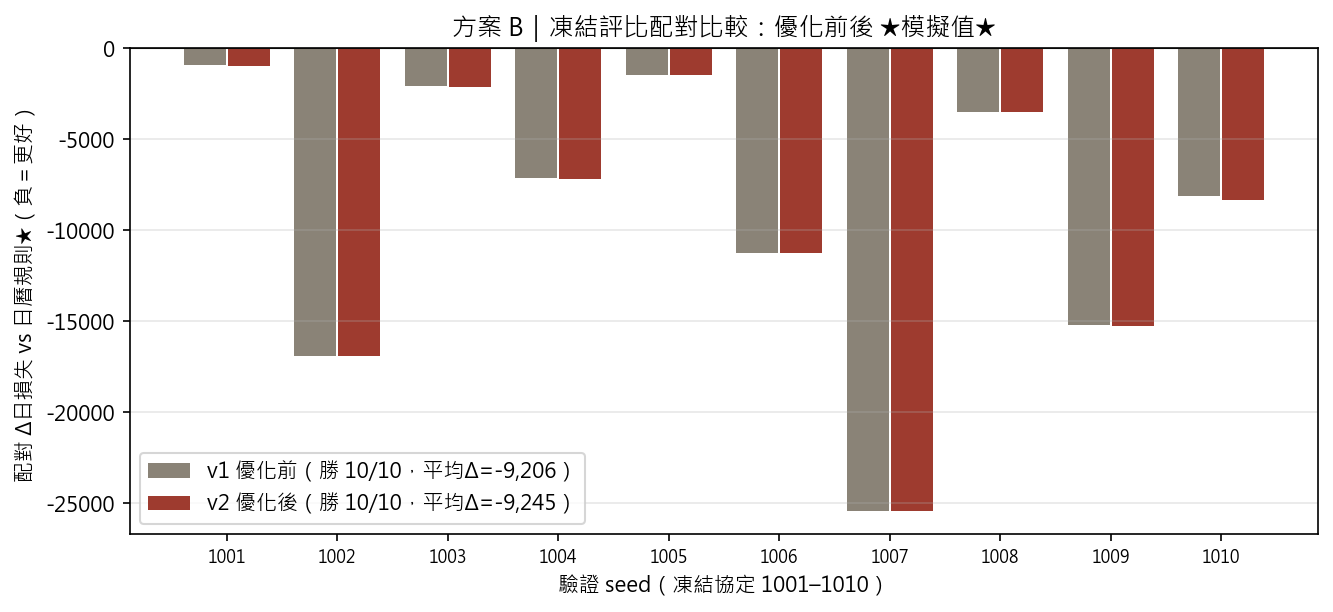
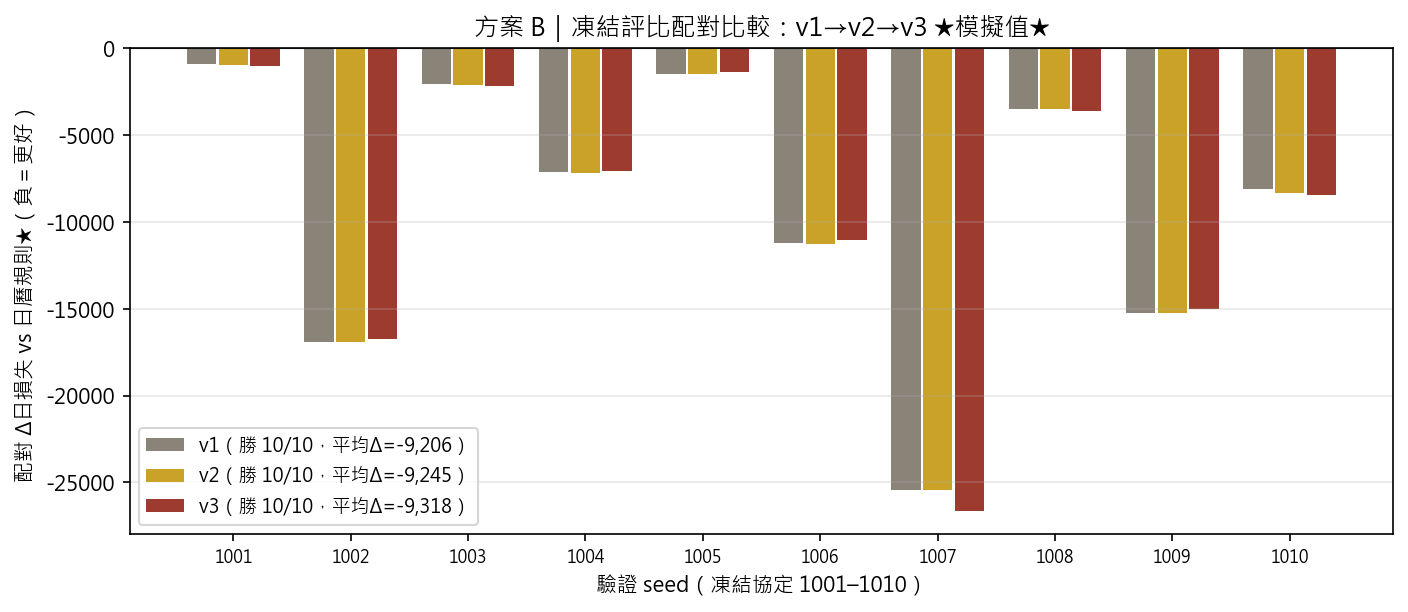
AI三案v3：2×2對照閉合——C換CEM-MLP首次過門檻(8/10)、B三連勝新低、A線性天花板三度確認
- 訓練C v3: DQN→CEM演化小型MLP(292參數)，勝1/10→8/10、Δ-6,496——證實死因是bootstrap
- policies.py B v3: CO2 nowcast反推香支數入DP+30分滾動重解，Δ-9,318、能耗降至3.64Wh
- 訓練A v3: 種子注入(含日曆型候選)仍收斂回常數70——線性天花板三度重現
- 圖表/: 9張更新，比較圖升級v1/v2/v3三代並排；models/: v2全數備份
- 日誌(7f): 2×2對照結論（非線性有增量、bootstrap是死因、顯式最佳化居首）

diff --git a/研究日誌_全期完整版.md b/研究日誌_全期完整版.md
@@ -1427,6 +1427,29 @@ v1 模型與評比結果全數保留（`*_v1.json`）供前後對照。
 > C 兩連敗把「B 為主力」從偏好升格為**有對照組的結論**。這正是
 > 凍結協定的意義：改動前後可比，失敗才有證據力。
 
+**（7f）第三輪（v3）：2×2 對照閉合（使用者裁示「再來一輪」）**
+
+優化內容：A＝種子注入（初始族群塞入常數 70 與手工日曆型候選）＋加大
+初始變異——測試 CEM 能否逃出常數局部最優；B＝排程器本體升級（CO₂
+nowcast 反推當前香支數混入 DP、30 分鐘滾動重解，移除 v2 的「升一檔」
+外掛）；**C＝換演算法**：DQN 兩連敗診斷指向 bootstrap 信用分配，改用
+CEM 演化直接優化小型 MLP（13→16→4，292 參數）的整回合報酬。
+
+**v3 凍結評比（同協定第三次重跑，★模擬值★）**：
+| 案 | v2→v3 | 判定與發現 |
+|---|---|---|
+| B 預測+DP | Δ −9,245→**−9,318**，能耗 3.79→3.64 Wh | ✅ 10/10 三連勝、損失新低——nowcast 讓反應進入最佳化本體 |
+| **C 小型MLP** | 勝 1/10→**8/10**，Δ +4,772→**−6,496** | ✅ **C 案首次過判贏門檻**。動作矩陣：有香時 93% 正確選 220——證實 v1/v2 的死因是 bootstrap 訓練法，不是「AI 不行」。殘餘弱點：無香時不關機（無電仍 8.2 h/日），下一輪明確靶點 |
+| A 線性CEM | 不變（三度收斂回「永遠 70」） | ✅ 9/10。**種子注入含日曆型候選仍逃不出常數解**——線性天花板三度重現，從觀察升格為穩健結論 |
+
+**2×2 對照閉合**（同一凍結協定下的 Δ日損失）：
+非線性×演化（C v3：−6,496）＞ 線性×演化（A：−2,963）＞
+非線性×bootstrap（C v2：+4,772，敗）。
+**「非線性帶來增量、bootstrap 是死因、顯式最佳化（B）仍居首」**
+——三個結論各有對照組，答詢時每一句都有圖可指。
+每案三圖更新（比較圖升級為 v1/v2/v3 三代並排）；DQN 產物保留
+（`dqnC_v1/v2.json`），C v3 產物為 `mlpC.json`。
+
 ---
 
 # 第二部｜彙總表
